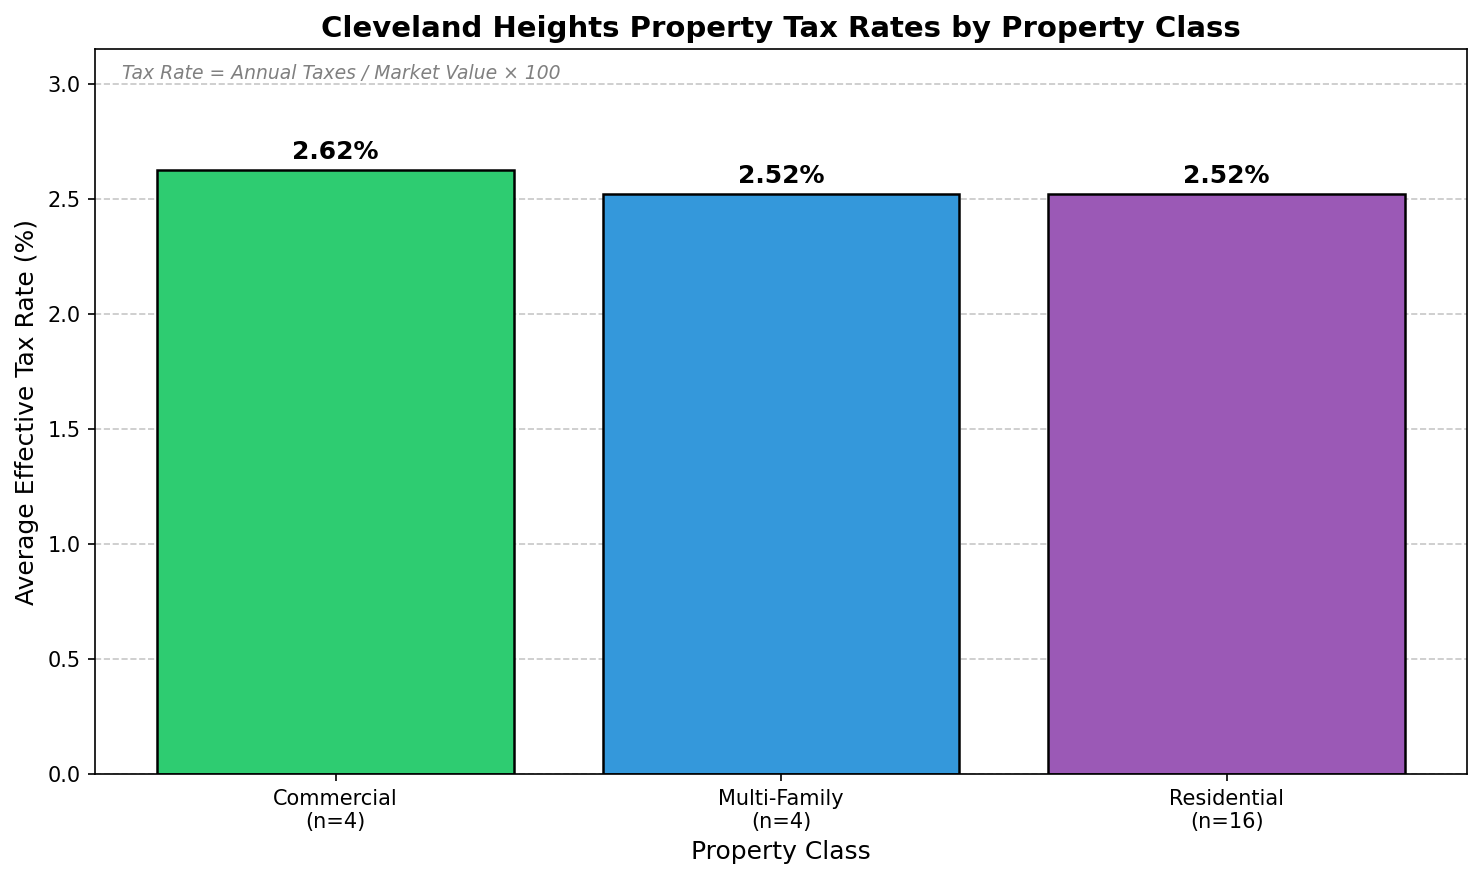
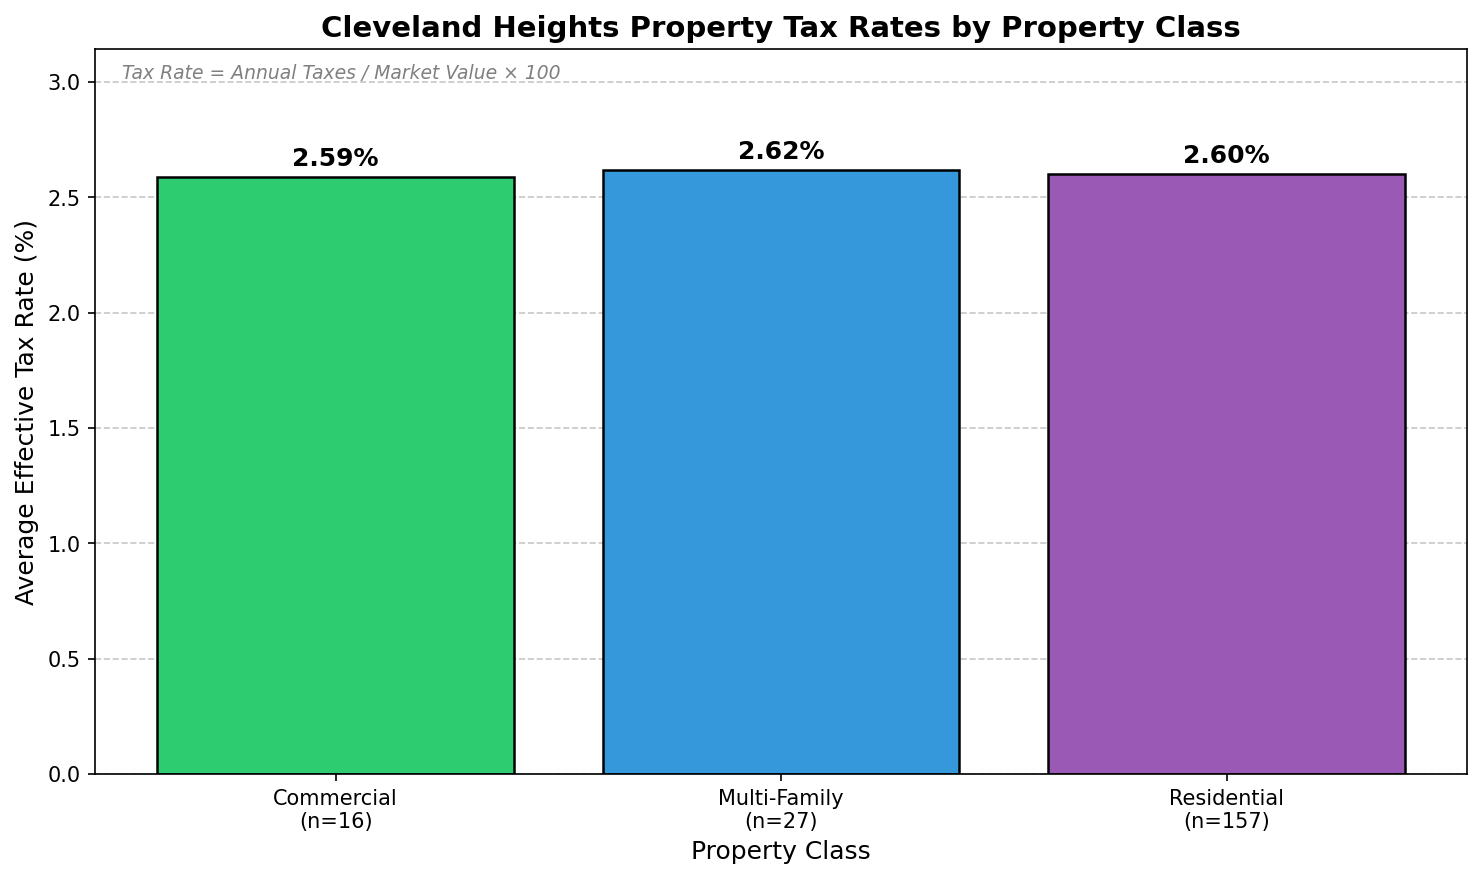
Expand sample dataset to 200 properties and add run script
Changes:
- Add sample_data.py with generator for 200 realistic Cleveland Heights properties
- Properties distributed across 8 neighborhoods with realistic characteristics
- Property class distribution: 82% residential, 12% multi-family, 6% commercial
- Add run_visualization.py for easy one-command execution
- Update README with Quick Start section
- Regenerate all visualizations with larger dataset

Run with: python run_visualization.py

diff --git a/cuyahoga_scraper/sample_data.py b/cuyahoga_scraper/sample_data.py
@@ -1,0 +1,141 @@
+"""
+Sample data generator for Cleveland Heights properties.
+
+Generates realistic sample data when live data cannot be fetched.
+Based on actual Cleveland Heights property characteristics:
+- Mix of historic (1900s-1930s), mid-century, and newer homes
+- Property values ranging from ~$80K to $800K+
+- Effective tax rate around 2.5-2.8% of market value
+- Ohio assesses at 35% of market value
+"""
+
+import random
+from typing import List, Dict
+
+# Street names in Cleveland Heights
+STREETS = [
+    "Overlook Rd", "Fairmount Blvd", "Coventry Rd", "Lee Rd", "Cedar Rd",
+    "Mayfield Rd", "Noble Rd", "Warrensville Center Rd", "Taylor Rd",
+    "Euclid Heights Blvd", "Derbyshire Rd", "Kenilworth Rd", "Queenston Rd",
+    "Yorkshire Rd", "Berkshire Rd", "Hampshire Rd", "Lancashire Rd",
+    "Meadowbrook Blvd", "Monticello Blvd", "Washington Blvd", "Lincoln Blvd",
+    "Yellowstone Rd", "Tullamore Rd", "Scarborough Rd", "Lamberton Rd",
+    "Lennox Rd", "Corydon Rd", "Edgehill Rd", "Woodview Rd", "Glenmont Rd",
+    "Superior Rd", "Compton Rd", "Bellfield Ave", "Rydalmount Rd",
+]
+
+# Cleveland Heights neighborhoods/areas with typical characteristics
+NEIGHBORHOODS = {
+    "Cedar Fairmount": {"value_range": (250000, 600000), "year_range": (1910, 1940), "weight": 0.15},
+    "Coventry": {"value_range": (150000, 400000), "year_range": (1915, 1945), "weight": 0.12},
+    "Cedar Lee": {"value_range": (180000, 450000), "year_range": (1920, 1950), "weight": 0.12},
+    "Noble": {"value_range": (100000, 280000), "year_range": (1940, 1970), "weight": 0.15},
+    "Forest Hill": {"value_range": (300000, 850000), "year_range": (1920, 1940), "weight": 0.10},
+    "Severance": {"value_range": (120000, 320000), "year_range": (1945, 1975), "weight": 0.15},
+    "Caledonia": {"value_range": (90000, 220000), "year_range": (1950, 1980), "weight": 0.12},
+    "Millikin": {"value_range": (140000, 350000), "year_range": (1925, 1955), "weight": 0.09},
+}
+
+
+def generate_sample_properties(count: int = 200) -> List[Dict]:
+    """
+    Generate realistic sample Cleveland Heights property data.
+
+    Args:
+        count: Number of properties to generate
+
+    Returns:
+        List of property dictionaries
+    """
+    random.seed(42)  # For reproducibility
+    properties = []
+
+    # Tax districts for Cleveland Heights
+    tax_districts = ["561", "562", "563", "564", "565"]
+
+    # Property class distribution (roughly matches reality)
+    # Cleveland Heights is primarily residential
+    class_weights = [
+        ("R", 0.82),   # Residential - 82%
+        ("M", 0.12),   # Multi-family - 12%
+        ("C", 0.06),   # Commercial - 6%
+    ]
+
+    for i in range(count):
+        # Select neighborhood based on weights
+        neighborhoods = list(NEIGHBORHOODS.keys())
+        weights = [NEIGHBORHOODS[n]["weight"] for n in neighborhoods]
+        neighborhood = random.choices(neighborhoods, weights=weights)[0]
+        hood_data = NEIGHBORHOODS[neighborhood]
+
+        # Select property class
+        prop_class = random.choices(
+            [c[0] for c in class_weights],
+            weights=[c[1] for c in class_weights]
+        )[0]
+
+        # Adjust values for commercial/multi-family
+        value_low, value_high = hood_data["value_range"]
+        if prop_class == "C":
+            value_low *= 2
+            value_high *= 3
+        elif prop_class == "M":
+            value_low *= 1.5
+            value_high *= 2
+
+        # Generate property characteristics
+        year_built = random.randint(*hood_data["year_range"])
+
+        # Market value with some variation
+        base_value = random.randint(int(value_low), int(value_high))
+        # Older homes in good areas tend to be worth more
+        if year_built < 1930 and value_high > 300000:
+            base_value = int(base_value * random.uniform(1.0, 1.3))
+        market_value = round(base_value, -3)  # Round to nearest $1000
+
+        # Ohio assesses at 35% of market value
+        assessed_value = round(market_value * 0.35, -2)
+
+        # Cleveland Heights effective tax rate is approximately 2.52% of market value
+        # This translates to about 7.2% of assessed value (millage rate ~72 mills)
+        # Add some variation
+        effective_rate = random.uniform(0.024, 0.028)
+        annual_taxes = round(market_value * effective_rate, 2)
+
+        # Living area based on property type and value
+        if prop_class == "R":
+            sqft_per_dollar = random.uniform(0.006, 0.010)
+            living_area = int(market_value * sqft_per_dollar)
+            living_area = max(800, min(5000, living_area))
+        elif prop_class == "M":
+            living_area = random.randint(3000, 12000)
+        else:  # Commercial
+            living_area = random.randint(2000, 20000)
+
+        # Generate address
+        house_num = random.randint(1000, 4999)
+        street = random.choice(STREETS)
+
+        # Generate parcel ID
+        district = random.choice(tax_districts)
+        section = f"{random.randint(1, 20):02d}"
+        parcel = f"{random.randint(1, 999):03d}"
+        parcel_id = f"{district}-{section}-{parcel}"
+
+        properties.append({
+            "parcel_id": parcel_id,
+            "address": f"{house_num} {street}",
+            "neighborhood": neighborhood,
+            "year_built": year_built,
+            "market_value_total": market_value,
+            "assessed_value": assessed_value,
+            "annual_taxes": annual_taxes,
+            "property_class": prop_class,
+            "living_area_sqft": living_area,
+        })
+
+    return properties
+
+
+# Pre-generated sample data for consistent results
+SAMPLE_PROPERTIES = generate_sample_properties(200)

diff --git a/cuyahoga_scraper/visualize.py b/cuyahoga_scraper/visualize.py
@@ -14,45 +14,7 @@ import json
 
 from .models import Property
 from .scraper import CuyahogaPropertyScraper
-
-
-# Sample data representing realistic Cleveland Heights properties
-# Used when live data cannot be fetched
-SAMPLE_PROPERTIES = [
-    # Historic district properties (1900-1930)
-    {"parcel_id": "561-01-001", "address": "2345 Overlook Rd", "year_built": 1925, "market_value_total": 285000, "assessed_value": 99750, "annual_taxes": 7182, "property_class": "R", "living_area_sqft": 2400},
-    {"parcel_id": "561-01-002", "address": "2401 Overlook Rd", "year_built": 1922, "market_value_total": 310000, "assessed_value": 108500, "annual_taxes": 7812, "property_class": "R", "living_area_sqft": 2650},
-    {"parcel_id": "561-02-015", "address": "1890 Coventry Rd", "year_built": 1918, "market_value_total": 195000, "assessed_value": 68250, "annual_taxes": 4914, "property_class": "R", "living_area_sqft": 1800},
-    {"parcel_id": "561-02-022", "address": "2156 Lennox Rd", "year_built": 1928, "market_value_total": 225000, "assessed_value": 78750, "annual_taxes": 5670, "property_class": "R", "living_area_sqft": 2100},
-    {"parcel_id": "561-03-008", "address": "2678 Fairmount Blvd", "year_built": 1924, "market_value_total": 425000, "assessed_value": 148750, "annual_taxes": 10710, "property_class": "R", "living_area_sqft": 3200},
-    {"parcel_id": "561-03-019", "address": "2890 Fairmount Blvd", "year_built": 1920, "market_value_total": 520000, "assessed_value": 182000, "annual_taxes": 13104, "property_class": "R", "living_area_sqft": 4100},
-
-    # Mid-century properties (1940-1970)
-    {"parcel_id": "562-04-011", "address": "3456 Mayfield Rd", "year_built": 1952, "market_value_total": 175000, "assessed_value": 61250, "annual_taxes": 4410, "property_class": "R", "living_area_sqft": 1450},
-    {"parcel_id": "562-04-025", "address": "3512 Mayfield Rd", "year_built": 1948, "market_value_total": 185000, "assessed_value": 64750, "annual_taxes": 4662, "property_class": "R", "living_area_sqft": 1550},
-    {"parcel_id": "562-05-003", "address": "1245 Yellowstone Rd", "year_built": 1955, "market_value_total": 165000, "assessed_value": 57750, "annual_taxes": 4158, "property_class": "R", "living_area_sqft": 1380},
-    {"parcel_id": "562-05-018", "address": "1367 Yellowstone Rd", "year_built": 1960, "market_value_total": 155000, "assessed_value": 54250, "annual_taxes": 3906, "property_class": "R", "living_area_sqft": 1320},
-    {"parcel_id": "562-06-007", "address": "2089 Noble Rd", "year_built": 1958, "market_value_total": 145000, "assessed_value": 50750, "annual_taxes": 3654, "property_class": "R", "living_area_sqft": 1250},
-    {"parcel_id": "562-06-021", "address": "2145 Noble Rd", "year_built": 1965, "market_value_total": 138000, "assessed_value": 48300, "annual_taxes": 3478, "property_class": "R", "living_area_sqft": 1180},
-
-    # Later properties (1970-2000)
-    {"parcel_id": "563-07-004", "address": "4567 Warrensville Rd", "year_built": 1975, "market_value_total": 125000, "assessed_value": 43750, "annual_taxes": 3150, "property_class": "R", "living_area_sqft": 1100},
-    {"parcel_id": "563-07-016", "address": "4623 Warrensville Rd", "year_built": 1978, "market_value_total": 135000, "assessed_value": 47250, "annual_taxes": 3402, "property_class": "R", "living_area_sqft": 1200},
-    {"parcel_id": "563-08-009", "address": "1789 Lee Rd", "year_built": 1985, "market_value_total": 198000, "assessed_value": 69300, "annual_taxes": 4990, "property_class": "R", "living_area_sqft": 1650},
-    {"parcel_id": "563-08-023", "address": "1845 Lee Rd", "year_built": 1992, "market_value_total": 215000, "assessed_value": 75250, "annual_taxes": 5418, "property_class": "R", "living_area_sqft": 1800},
-
-    # Commercial properties
-    {"parcel_id": "564-09-001", "address": "2200 Lee Rd", "year_built": 1945, "market_value_total": 850000, "assessed_value": 297500, "annual_taxes": 22313, "property_class": "C", "living_area_sqft": 8500},
-    {"parcel_id": "564-09-012", "address": "2287 Lee Rd", "year_built": 1955, "market_value_total": 425000, "assessed_value": 148750, "annual_taxes": 11156, "property_class": "C", "living_area_sqft": 4200},
-    {"parcel_id": "564-10-005", "address": "1800 Coventry Rd", "year_built": 1935, "market_value_total": 675000, "assessed_value": 236250, "annual_taxes": 17719, "property_class": "C", "living_area_sqft": 6800},
-    {"parcel_id": "564-10-019", "address": "1856 Coventry Rd", "year_built": 1940, "market_value_total": 525000, "assessed_value": 183750, "annual_taxes": 13781, "property_class": "C", "living_area_sqft": 5200},
-
-    # Multi-family properties
-    {"parcel_id": "565-11-002", "address": "2450 Derbyshire Rd", "year_built": 1930, "market_value_total": 380000, "assessed_value": 133000, "annual_taxes": 9576, "property_class": "M", "living_area_sqft": 4800},
-    {"parcel_id": "565-11-014", "address": "2512 Derbyshire Rd", "year_built": 1928, "market_value_total": 420000, "assessed_value": 147000, "annual_taxes": 10584, "property_class": "M", "living_area_sqft": 5400},
-    {"parcel_id": "565-12-008", "address": "3100 Euclid Heights Blvd", "year_built": 1925, "market_value_total": 550000, "assessed_value": 192500, "annual_taxes": 13860, "property_class": "M", "living_area_sqft": 7200},
-    {"parcel_id": "565-12-020", "address": "3156 Euclid Heights Blvd", "year_built": 1932, "market_value_total": 485000, "assessed_value": 169750, "annual_taxes": 12222, "property_class": "M", "living_area_sqft": 6100},
-]
+from .sample_data import SAMPLE_PROPERTIES, generate_sample_properties
 
 
 def get_sample_properties() -> List[Property]:

diff --git a/run_visualization.py b/run_visualization.py
@@ -1,0 +1,100 @@
+#!/usr/bin/env python3
+"""
+Simple script to run the Cleveland Heights property tax visualization.
+
+Usage:
+    python run_visualization.py                    # Use sample data (200 properties)
+    python run_visualization.py --fetch            # Fetch live data from Cuyahoga County
+    python run_visualization.py --fetch --limit 500  # Fetch 500 properties
+"""
+
+import sys
+import os
+
+# Add the project to path if running from project root
+sys.path.insert(0, os.path.dirname(os.path.abspath(__file__)))
+
+from cuyahoga_scraper.visualize import generate_all_visualizations, get_sample_properties
+from cuyahoga_scraper.scraper import CuyahogaPropertyScraper
+
+
+def main():
+    import argparse
+
+    parser = argparse.ArgumentParser(
+        description="Generate Cleveland Heights property tax visualizations",
+        formatter_class=argparse.RawDescriptionHelpFormatter,
+        epilog="""
+Examples:
+    python run_visualization.py                      # Use 200 sample properties
+    python run_visualization.py --fetch              # Fetch real data
+    python run_visualization.py --fetch --limit 1000 # Fetch 1000 properties
+    python run_visualization.py -o ./charts          # Save to ./charts folder
+        """,
+    )
+    parser.add_argument(
+        "-o", "--output-dir",
+        default="./output",
+        help="Output directory for charts (default: ./output)"
+    )
+    parser.add_argument(
+        "--fetch",
+        action="store_true",
+        help="Fetch live data from Cuyahoga County (requires internet)"
+    )
+    parser.add_argument(
+        "--limit",
+        type=int,
+        default=500,
+        help="Number of properties to fetch when using --fetch (default: 500)"
+    )
+    parser.add_argument(
+        "--show",
+        action="store_true",
+        help="Display charts in window (requires display)"
+    )
+
+    args = parser.parse_args()
+
+    properties = None
+
+    if args.fetch:
+        print(f"Fetching up to {args.limit} properties from Cuyahoga County...")
+        print("(This may take a minute...)")
+        try:
+            with CuyahogaPropertyScraper() as scraper:
+                result = scraper.get_cleveland_heights_properties(limit=args.limit)
+                if result.properties:
+                    properties = result.properties
+                    print(f"Successfully fetched {len(properties)} properties")
+                else:
+                    print(f"Could not fetch data: {result.error}")
+                    print("Falling back to sample data...")
+        except Exception as e:
+            print(f"Error: {e}")
+            print("Falling back to sample data...")
+
+    if properties is None:
+        print("Using sample data (200 Cleveland Heights properties)...")
+        properties = get_sample_properties()
+
+    # Generate visualizations
+    print(f"\nGenerating visualizations for {len(properties)} properties...")
+    files = generate_all_visualizations(
+        properties=properties,
+        output_dir=args.output_dir,
+        show=args.show,
+    )
+
+    print(f"\n{'='*50}")
+    print(f"Generated {len(files)} charts in {args.output_dir}/")
+    print(f"{'='*50}")
+    for f in files:
+        print(f"  - {os.path.basename(f)}")
+
+    print(f"\nTo view the charts, open:")
+    print(f"  {os.path.abspath(args.output_dir)}/cleveland_heights_tax_analysis.png")
+
+
+if __name__ == "__main__":
+    main()

diff --git a/cuyahoga_scraper/README.md b/cuyahoga_scraper/README.md
@@ -2,6 +2,32 @@
 
 A Python tool for pulling property data from Cuyahoga County's public property lookup systems, specifically designed for Cleveland Heights, Ohio properties.
 
+## Quick Start
+
+```bash
+# 1. Install dependencies
+pip install requests matplotlib
+
+# 2. Run the visualization (from project root)
+python run_visualization.py
+
+# 3. View the generated charts in ./output/
+```
+
+This generates property tax rate visualizations using 200 sample Cleveland Heights properties.
+
+### Fetch Real Data
+
+To fetch live data from Cuyahoga County (requires internet access):
+
+```bash
+# Fetch 500 real properties and generate charts
+python run_visualization.py --fetch --limit 500
+
+# Fetch data only (export to CSV)
+python -m cuyahoga_scraper fetch --limit 1000 --output properties.csv
+```
+
 ## Overview
 
 This scraper uses the Cuyahoga County ArcGIS REST API to retrieve parcel and property information. The tool provides:
